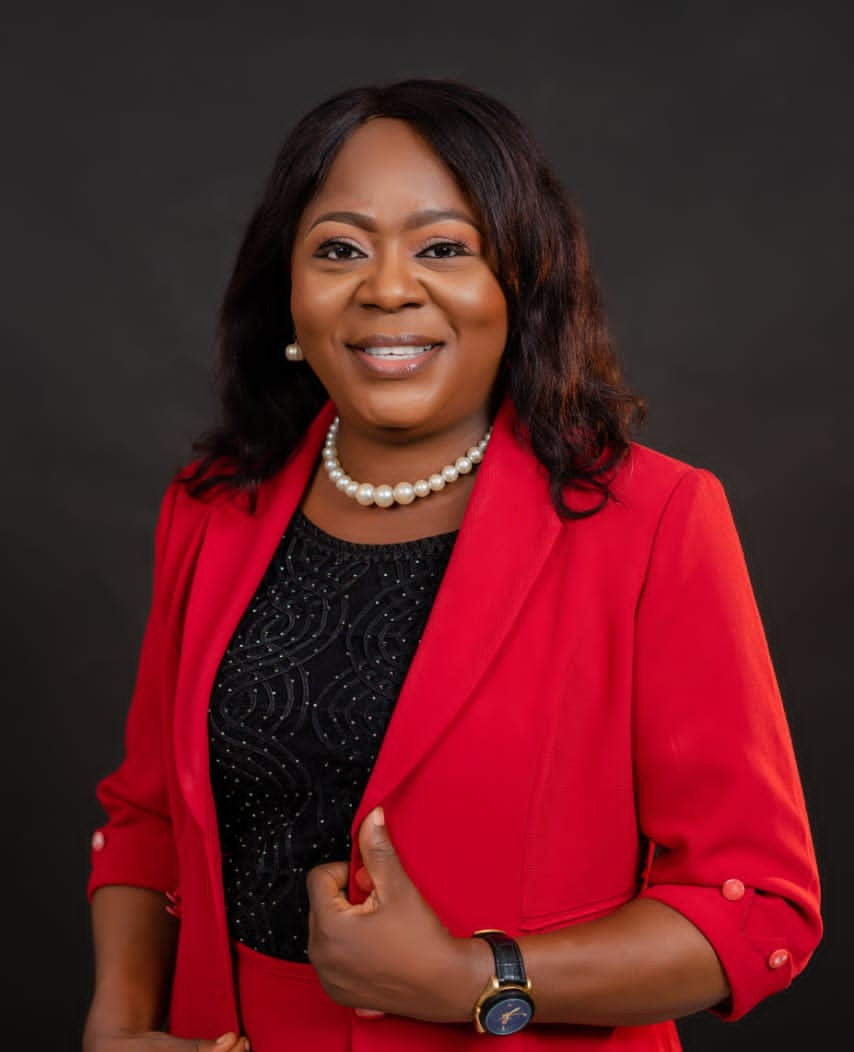
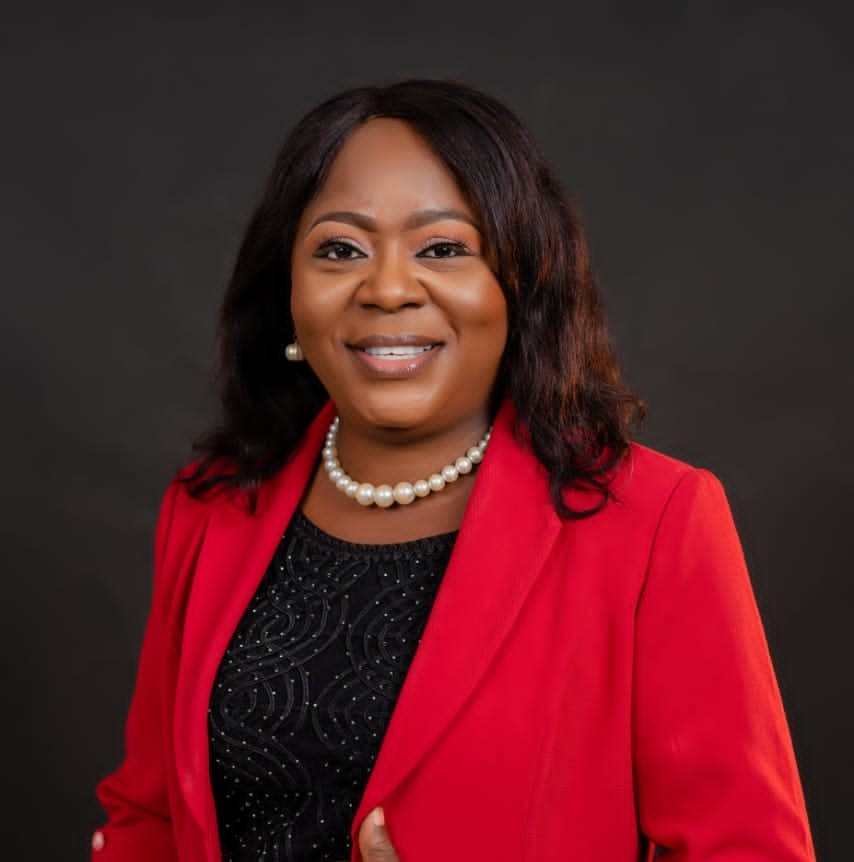
feat: add Achievements bento grid, Alumni section with registered sets, fix Image sizes warnings

diff --git a/src/components/AlumniSection.tsx b/src/components/AlumniSection.tsx
@@ -1,6 +1,6 @@
 import styles from "./AlumniSection.module.css";
 import { AlumniContent } from "@/types";
-import { FaUsers } from "react-icons/fa";
+import { FaCalendar, FaUsers } from "react-icons/fa";
 
 interface AlumniSectionProps {
   content: AlumniContent;
@@ -19,13 +19,23 @@ export default function AlumniSection({ content }: AlumniSectionProps) {
 
         <div className={styles.statsRow}>
           <div className={styles.stat}>
-            <span className={styles.statIcon}><FaUsers /></span>
-            <span className={styles.statNumber}>{content.registeredSets.length}</span>
+            <span className={styles.statIcon}>
+              <FaUsers />
+            </span>
+            <span className={styles.statNumber}>
+              {content.registeredSets.length}
+            </span>
             <span className={styles.statLabel}>Registered Sets</span>
           </div>
           <div className={styles.stat}>
+            <span className={styles.statIcon}>
+              <FaCalendar />
+            </span>
             <span className={styles.statNumber}>
-              {content.registeredSets[content.registeredSets.length - 1] - content.registeredSets[0] + 1}+
+              {content.registeredSets[content.registeredSets.length - 1] -
+                content.registeredSets[0] +
+                1}
+              +
             </span>
             <span className={styles.statLabel}>Years of Legacy</span>
           </div>

diff --git a/src/components/GiveBack.tsx b/src/components/GiveBack.tsx
@@ -23,7 +23,7 @@ export default function GiveBack({ content }: { content: GiveBackContent }) {
             </button>
           </div>
           <div className={styles.endowmentImage} style={{ position: "relative", minHeight: "300px" }}>
-            <Image src="/endowment.png" alt="Endowment Fund" fill style={{ objectFit: "cover" }} />
+            <Image src="/endowment.png" alt="Endowment Fund" fill sizes="(max-width: 768px) 100vw, 50vw" style={{ objectFit: "cover" }} />
           </div>
         </div>
 
@@ -37,6 +37,7 @@ export default function GiveBack({ content }: { content: GiveBackContent }) {
                     src={item.image}
                     alt={item.name}
                     fill
+                    sizes="(max-width: 768px) 100vw, 33vw"
                     style={{ objectFit: "cover" }}
                   />
                 ) : (
@@ -48,6 +49,7 @@ export default function GiveBack({ content }: { content: GiveBackContent }) {
                     alt={`${item.name} back`}
                     fill
                     className={styles.backImage}
+                    sizes="(max-width: 768px) 100vw, 33vw"
                     style={{ objectFit: "cover" }}
                   />
                 )}

diff --git a/src/components/Achievements.module.css b/src/components/Achievements.module.css
@@ -12,16 +12,30 @@
   margin: 0 auto;
 }
 
-/* Grid */
+/* Bento Grid */
 .grid {
   display: grid;
   grid-template-columns: 1fr;
-  gap: 2rem;
+  gap: 1.5rem;
 }
 
 @media (min-width: 768px) {
   .grid {
     grid-template-columns: repeat(2, 1fr);
+  }
+}
+
+@media (min-width: 1024px) {
+  .grid {
+    grid-template-columns: repeat(3, 1fr);
+  }
+
+  .card:first-child {
+    grid-row: span 2;
+  }
+
+  .card:first-child .imageWrapper {
+    height: 260px;
   }
 }
 
@@ -46,7 +60,7 @@
 .imageWrapper {
   position: relative;
   width: 100%;
-  height: 200px;
+  height: 220px;
   flex-shrink: 0;
 }
 
@@ -56,7 +70,6 @@
   display: flex;
   flex-direction: column;
   gap: 0.75rem;
-  flex-grow: 1;
 }
 
 .iconRow {

diff --git a/src/components/AboutSection.tsx b/src/components/AboutSection.tsx
@@ -18,7 +18,7 @@ export default function AboutSection({ content }: { content: AboutContent }) {
 
         {content.image && (
           <div style={{ position: "relative", width: "100%", height: "400px", marginBottom: "4rem", borderRadius: "var(--radius-lg)", overflow: "hidden" }}>
-            <Image src={content.image} alt="Leadership Team" fill style={{ objectFit: "cover" }} />
+            <Image src={content.image} alt="Leadership Team" fill sizes="(max-width: 768px) 100vw, 1200px" style={{ objectFit: "cover" }} />
           </div>
         )}
 
